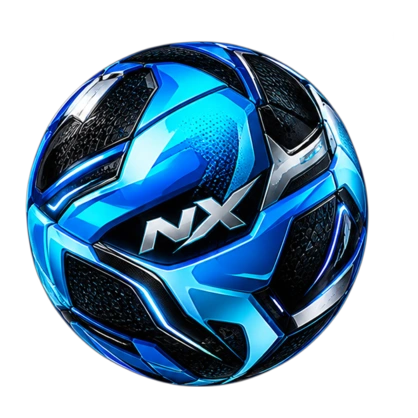
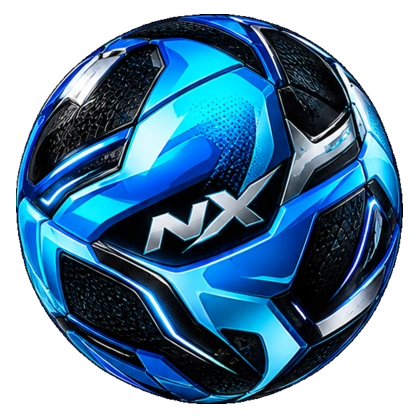
Normalize final finger soccer ball dimensions

diff --git a/lib/games/finger_soccer/core/bm_data.dart b/lib/games/finger_soccer/core/bm_data.dart
@@ -357,7 +357,7 @@ const List<BmTrail> kBmTR = <BmTrail>[
 const List<String> kBmTRN = <String>["Bolt", "Prism", "Wave", "Starlight", "Smoke", "Rainbow", "Neon", "Yin", "Fire", "Blade", "Ghost", "Ember", "Plasma", "Copper Ghost", "Stardust", "Twilight", "Gold Flame", "Thunder", "Cobalt Neon", "Aurora", "Crimson Blade", "Teal Storm", "Royal Ember", "Gold Yin", "Red Smoke", "Gilded Star", "Noir Chrome", "Violet Strike", "Emerald Edge", "Royal Blue Gold", "Crimson Noir", "Blaze Orange", "Aqua Wave", "Sunset Pro", "Elite Cobalt", "Crown Luxury"];
 
 /// v12: exactly the four balls from the owner's 2 x 2 source sheet. The source's transparent cut-outs are centred
-/// independently so every colour uses the same 418 px texture/collider contract. BmBallRenderer supplies real roll.
+/// independently to a 390 px visible sphere on the same 418 px texture/collider contract. BmBallRenderer supplies roll.
 const List<String> kBmBallN = <String>['NX Lime', 'NX Blue', 'NX Purple', 'NX Red'];
 const List<String> kBmBallFa = <String>['NX لیمویی', 'NX آبی', 'NX بنفش', 'NX قرمز'];
 const List<String> kBmBallSlug = <String>['nx_ball_lime', 'nx_ball_blue', 'nx_ball_purple', 'nx_ball_red'];
@@ -392,7 +392,7 @@ const Map<int, BmAnimBall> kBmAnimBalls = <int, BmAnimBall>{};
 /// Art fills: disc rim radius / half sprite size, ball radius / half frame size.
 /// The painter draws every sprite so the rim lands exactly on the physics radius.
 const double kBmDiscArtFill = 123 / 128;
-const double kBmBallArtFill = 76 / 80;
+const double kBmBallArtFill = 195 / 209;
 
 class BmFa {
   const BmFa(this.k, this.c, this.g);

diff --git a/tool/build_fs_v12_owner_assets.py b/tool/build_fs_v12_owner_assets.py
@@ -4,9 +4,10 @@
 Usage:
   python3 tool/build_fs_v12_owner_assets.py /path/to/sheets
 
-The source directory must contain the ten filenames from the 2026-11-23 owner upload. The builder keeps one art per
-unique club/country/brand, removes only edge-connected dark sheet backgrounds, fits the complete coin inside a common
-256px transparent canvas, and writes assets/games/bermuda/discs/v12 plus a Dart definitions fragment on stdout.
+The source directory must contain the team sheets, four-ball sheet and sole field from the 2026-11-23 owner upload.
+The builder keeps one art per unique club/country/brand, removes only edge-connected dark sheet backgrounds, fits the
+complete coin inside a common 256px transparent canvas, normalizes every ball to the same 390px visible diameter on a
+418px canvas, restores the exact field, and writes a Dart team-definitions fragment on stdout.
 """
 from __future__ import annotations
 
@@ -18,7 +19,11 @@ from pathlib import Path
 
 ROOT = Path(__file__).resolve().parents[1]
 SRC = Path(sys.argv[1]) if len(sys.argv) > 1 else Path('/tmp/arena-coding-uploads')
-OUT = ROOT / 'assets/games/bermuda/discs/v12'
+ASSET_ROOT = ROOT / 'assets/games/bermuda'
+OUT = ASSET_ROOT / 'discs/v12'
+BALL_SOURCE = 'Picsart_26-11-24_01-03-54-987.png'
+FIELD_SOURCE = 'Picsart_26-11-24_01-14-28-444.jpg'
+DEDUP_REFERENCE = 'file_0000000089b0822fb0f9106a798cac30.png'
 
 # (id, category, English, Persian). Coordinates below are row/column in each source sheet.
 items: list[tuple[str, str, str, str, str, int, int, int, int]] = []
@@ -116,7 +121,7 @@ manual: list[tuple[str,str,str,str,str,int,int]] = [
 # Validate ids before touching output.
 all_ids = [x[0] for x in items] + [x[0] for x in manual]
 assert len(all_ids) == len(set(all_ids)), 'duplicate team id'
-for filename in {x[4] for x in items} | {x[4] for x in manual}:
+for filename in {x[4] for x in items} | {x[4] for x in manual} | {BALL_SOURCE, FIELD_SOURCE, DEDUP_REFERENCE}:
     assert (SRC / filename).exists(), SRC / filename
 
 if OUT.exists():
@@ -159,6 +164,35 @@ for team_id, cat, en, fa, filename, cols, nrows, row, col in items:
 for team_id, cat, en, fa, filename, cx, cy in manual:
     size = 174
     finish(SRC / filename, f'{size}x{size}+{cx-size//2}+{cy-size//2}', OUT / f'{team_id}.webp', fuzz='10%')
+
+# Four owner balls: trim each independently, then normalize the visible sphere rather than the grid cell. This fixes
+# the source sheet's differing object scales while preserving aspect and gives all four the same collider contract.
+ball_out = ASSET_ROOT / 'balls/v12'
+if ball_out.exists():
+    shutil.rmtree(ball_out)
+ball_out.mkdir(parents=True)
+ball_crops = {
+    'nx_ball_lime': '602x624+0+0',
+    'nx_ball_blue': '601x624+602+0',
+    'nx_ball_purple': '602x624+0+624',
+    'nx_ball_red': '601x624+602+624',
+}
+for slug, crop in ball_crops.items():
+    subprocess.run([
+        'convert', str(SRC / BALL_SOURCE), '-crop', crop, '+repage', '-channel', 'A', '-threshold', '5%', '+channel',
+        '-trim', '+repage', '-resize', '390x390',
+        '-gravity', 'center', '-background', 'none', '-extent', '418x418', '-quality', '94', str(ball_out / f'{slug}.webp'),
+    ], check=True)
+
+# The match uses the supplied field byte-for-byte; only its small shop thumbnail is derived.
+field_out = ASSET_ROOT / 'fields/nx_sockerbox_owner.jpg'
+field_out.parent.mkdir(parents=True, exist_ok=True)
+shutil.copyfile(SRC / FIELD_SOURCE, field_out)
+thumb_out = ASSET_ROOT / 'thumbs/nx_sockerbox_owner.webp'
+thumb_out.parent.mkdir(parents=True, exist_ok=True)
+subprocess.run([
+    'convert', str(field_out), '-resize', '240x380', '-quality', '90', str(thumb_out),
+], check=True)
 
 # Stable, plausible play stats. Elite football nations/clubs get a small explicit bump; visual-brand categories are
 # consistently premium. Stats affect shot power/accuracy, never collision dimensions.
